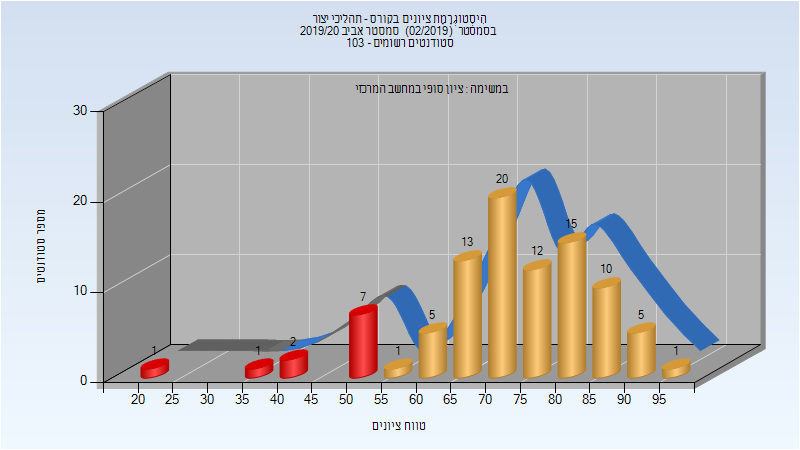
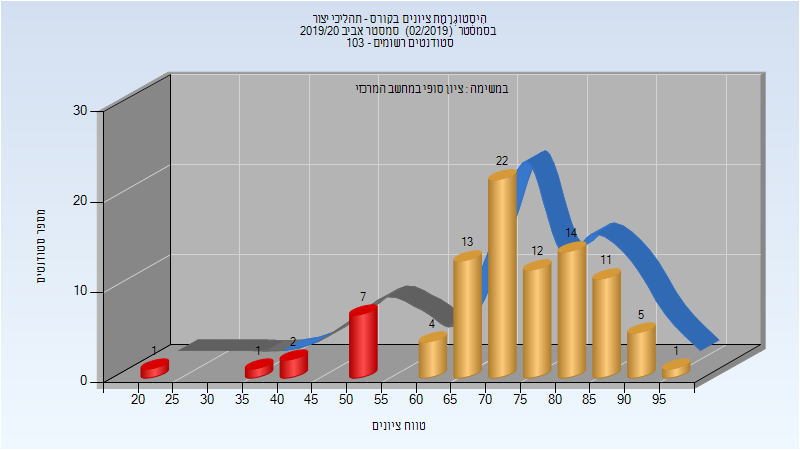
Deploy michael-maltsev/technion-histograms to github.com/michael-maltsev/technion-histograms.git:gh-pages

Changed region(s): [[0.5938, 0.3422, 0.8438, 0.6533], [0.4688, 0.6222, 0.5938, 0.84], [0.5938, 0.6222, 0.625, 0.6533]]

diff --git a/034033/index.html b/034033/index.html
@@ -861,13 +861,13 @@
 </thead>
 <tbody>
 <tr>
-<td>11</td>
-<td>11/0</td>
+<td>12</td>
+<td>12/0</td>
 <td>100</td>
 <td>55</td>
 <td>97</td>
-<td>66.545</td>
-<td>62</td>
+<td>67.083</td>
+<td>65</td>
 </tr>
 </tbody>
 </table>

diff --git a/034032/index.html b/034032/index.html
@@ -917,11 +917,11 @@
 <tbody>
 <tr>
 <td>116</td>
-<td>85/31</td>
-<td>73</td>
+<td>87/29</td>
+<td>75</td>
 <td>15</td>
 <td>104</td>
-<td>67.147</td>
+<td>67.5</td>
 <td>69</td>
 </tr>
 </tbody>

diff --git a/034030/index.html b/034030/index.html
@@ -791,7 +791,7 @@
 <td>88</td>
 <td>21</td>
 <td>95</td>
-<td>72.903</td>
+<td>73.161</td>
 <td>73</td>
 </tr>
 </tbody>

diff --git a/034033/README.md b/034033/README.md
@@ -267,7 +267,7 @@
 
 | סטודנטים | עברו/נכשלו | אחוז עוברים | ציון מינימלי | ציון מקסימלי | ממוצע | חציון |
 | ---- | ---- | ---- | ---- | ---- | ---- | ---- |
-| 11 | 11/0 | 100 | 55 | 97 | 66.545 | 62 |
+| 12 | 12/0 | 100 | 55 | 97 | 67.083 | 65 |
 
 ## אביב 2020
 

diff --git a/034032/README.md b/034032/README.md
@@ -282,5 +282,5 @@
 
 | סטודנטים | עברו/נכשלו | אחוז עוברים | ציון מינימלי | ציון מקסימלי | ממוצע | חציון |
 | ---- | ---- | ---- | ---- | ---- | ---- | ---- |
-| 116 | 85/31 | 73 | 15 | 104 | 67.147 | 69 |
+| 116 | 87/29 | 75 | 15 | 104 | 67.5 | 69 |
 

diff --git a/034030/README.md b/034030/README.md
@@ -246,5 +246,5 @@
 
 | סטודנטים | עברו/נכשלו | אחוז עוברים | ציון מינימלי | ציון מקסימלי | ממוצע | חציון |
 | ---- | ---- | ---- | ---- | ---- | ---- | ---- |
-| 93 | 82/11 | 88 | 21 | 95 | 72.903 | 73 |
+| 93 | 82/11 | 88 | 21 | 95 | 73.161 | 73 |
 
